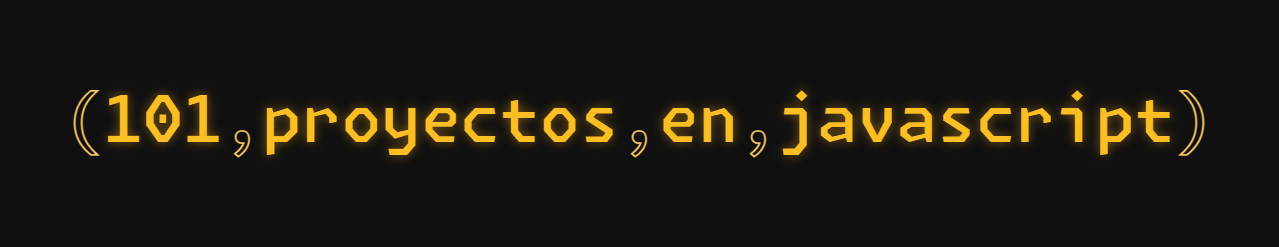
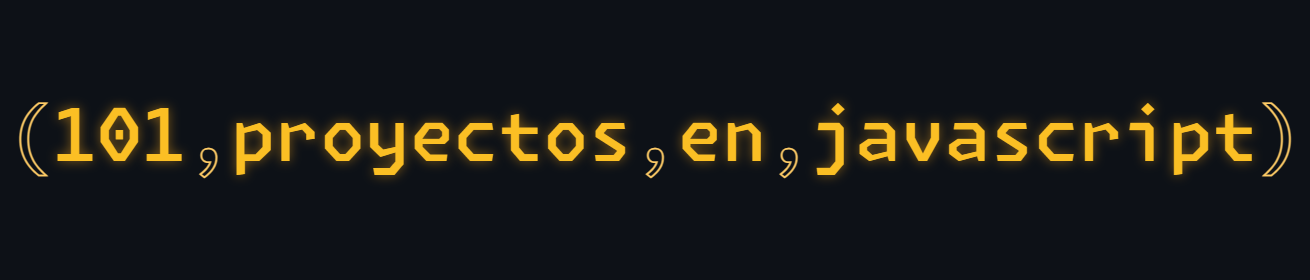
Update img for readme

Changed region(s): [[0.0, 0.3684, 1.0, 0.6518]]

diff --git a/README.md b/README.md
@@ -2,7 +2,7 @@
 
 { 101 Proyectos JS } es una página web creada con Astro donde encontrarás una colección de 101 proyectos desarrollados exclusivamente con JavaScript vanilla, sin el uso de ninguna biblioteca adicional. Cada proyecto está disponible como código abierto bajo la Licencia MIT.
 
-![alt text](image.png)
+![(101, proyectos, en, javascript)](image.png)
 
 ## Características 🚀
 
